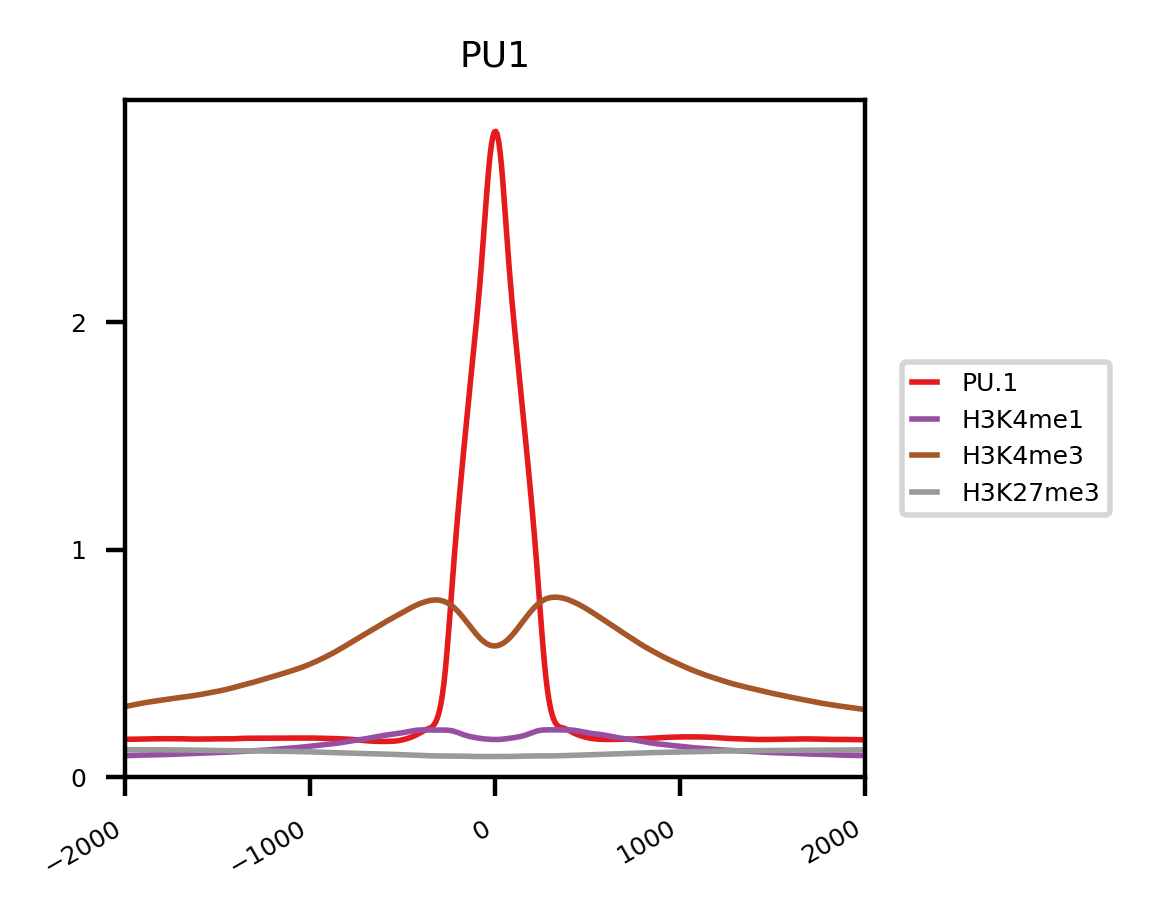
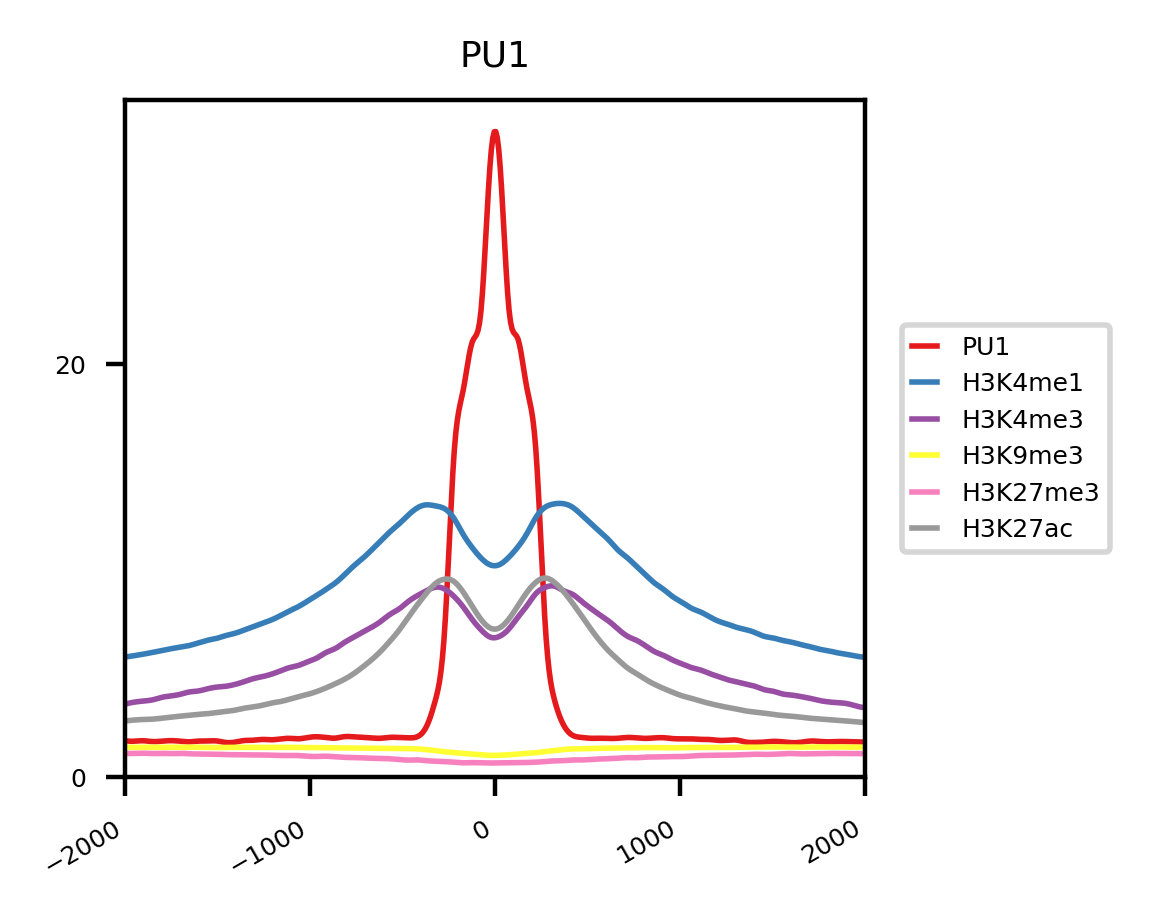
update rgt-viz tutorial

diff --git a/docs/rgt-viz/tutorial_regions_vs_signals.md b/docs/rgt-viz/tutorial_regions_vs_signals.md
@@ -2,7 +2,8 @@
 
 In this tutorial, we will demonstrate how we can use RGT-Viz to visualize signlas in different regions.
 
-## Download the example files
+## Download the data
+
 We will use the epigenetic data from dendritic cell development study as example. There, we have ChIP-Seq data from the transcription factor **PU.1** and **IRF8**, and histone modifications **H3K4me1**, **H3K4me3**, **H3K9me3**, **H3K27me3**, and **H3K27ac** on four cellular states: multipotent progenitors (MPP), dendritic cell progenitors (CDP), common dendritic cells (cDC) and plamatocyte dendritic cells (pDC). The functional annotation of these histone markers are as follows:
 
 * H3K4me1 is enriched at active and primed enhancers;
@@ -10,19 +11,6 @@ We will use the epigenetic data from dendritic cell development study as example
 * H3K9me3 is a marker of heterochromatin which has pivotal role during lineage commitement;
 * H3K27me3 is associated with the downregulation of nearby genes via the formation of heterochromatic regions;
 * H3K27ac is accociated with the higher activation of transcription and defined as an active enhancer marker.
-
-For simplicity, here we only look at data from the differentiation transition CDP to cDC.
-
-Please follow the following steps to download the necessary example files: genomic signals in bigwig (bw) format for histone modifications and PU.1, as well as peaks from PU.1 (bed files).
-
-Download the folder “rgt_viz_example” from [here](https://costalab.ukaachen.de/open_data/RGT/rgt_viz_example.zip).
-
-
-## Creating Line Plots with RGT-Viz
-
-Here we demonstrate how we can use RGT-Viz for drawing a lineplots. This allows for example to inspect the ChIP-Seq signals around particular genomic regions, as PU.1. peaks. Before you proceed, please [install RGT-Viz](https://reg-gen.readthedocs.io/en/latest/rgt/installation.html).
-
-### Download the example files
 
 Please follow the following steps to download the necessary example files: genomic signals in bigwig (bw) format for histone modifications and PU.1, as well as peaks from PU.1 (bed files).
 
@@ -32,39 +20,27 @@ Download the folder “rgt_viz_example” from [here](https://costalab.ukaachen.
 cd rgt_viz_example
 ```
 
-Now you have the files as described below:
-
 ```shell
-rgt_viz_example
-    ├── Matrix_CDP.txt
-    ├── Matrix_CDP_cDC.txt
-    ├── Matrix_H3K4me3.txt
-    ├── Matrix_PU1.txt
-    ├── data
-    │   ├── CDP_H3K27me3.bw
-    │   ├── CDP_H3K4me1.bw
-    │   ├── CDP_H3K4me3.bw
-    │   ├── CDP_PU1.bw
-    │   ├── CDP_PU1_peaks.bed
-    │   ├── CDP_WT_H3K27me3.bw
-    │   ├── CDP_WT_H3K4me1.bw
-    │   ├── CDP_WT_H3K4me3.bw
+└── data
+    ├── bw
+    │   ├── H3K27ac
+    │   ├── H3K27me3
+    │   ├── H3K4me1
     │   ├── H3K4me3
-    │   │   ├── CDP_WT_peaks.bed
-    │   │   ├── MPP_WT_peaks.bed
-    │   │   ├── cDC_WT_peaks.bed
-    │   │   └── pDC_WT_peaks.bed
-    │   ├── cDC_H3K27me3.bw
-    │   ├── cDC_H3K4me1.bw
-    │   ├── cDC_H3K4me3.bw
-    │   ├── cDC_PU1.bw
-    │   ├── cDC_PU1_peaks.bed
-    │   ├── cDC_WT_H3K27me3.bw
-    │   ├── cDC_WT_H3K4me1.bw
-    │   └── cDC_WT_H3K4me3.bw
+    │   ├── H3K9me3
+    │   ├── IRF8
+    │   └── PU1
+    └── peaks
+        ├── IRF8
+        └── PU1
 ```
 
-These files include the genomic signals of histone modifications (files with a .bw ending) and the genomic regions of PU.1 peaks (files with .bed endings).
+These directories include the genomic signals of histone modifications (files with a .bw ending as generated by [bamCoverage](https://deeptools.readthedocs.io/en/develop/content/tools/bamCoverage.html)) and the genomic regions of PU.1 and IRF8 peaks (files with .narrowPeak endings as generated by [MACS2](https://genomebiology.biomedcentral.com/articles/10.1186/gb-2008-9-9-r137)) in different DC cells.
+
+
+## Creating Line Plots with RGT-Viz
+
+Here we demonstrate how we can use RGT-Viz for drawing a lineplots. This allows for example to inspect the ChIP-Seq signals around particular genomic regions, as PU.1. peaks. Before you proceed, please [install RGT-Viz](https://reg-gen.readthedocs.io/en/latest/rgt/installation.html).
 
 ### Understand experimental matrix
 
@@ -72,13 +48,15 @@ Before we use the RGT-Viz, you must define an experimental matrix. This tab sepa
 
 For example “<em>Matrix_CDP.txt</em>”  includes the files, which we need for finding the association of genomic signals on the genomic peaks of PU.1 transcription factor.
 
-| name       	 | type	   | file			| factor   | cell |
-| :------------- | :------ | :------------------------- | :------- | :--- |
-| CDP\_PU1\_peaks| regions | ./data/CDP\_PU1\_peaks.bed | PU1      | CDP  |
-| CDP\_PU1       | reads   | ./data/CDP\_PU1.bw		| PU.1     | CDP  |
-| CDP\_H3K4me1   | reads   | ./data/CDP\_H3K4me1.bw	| H3K4me1  | CDP  |
-| CDP\_H3K4me3   | reads   | ./data/CDP\_H3K4me3.bw	| H3K4me3  | CDP  |
-| CDP\_H3K27me3  | reads   | ./data/CDP\_H3K27me3.bw 	| H3K27me3 | CDP  |
+| name       	 | type	   | file			                        | factor   | cell |
+| :------------- | :------ | :--------------------------------------| :------- | :--- |
+| CDP\_PU1\_peaks| regions | ./data/peaks/PU1/CDP\_peaks.narrowPeak | PU1      | CDP  |
+| CDP\_PU1       | reads   | ./data/bw/PU1/CDP.bw		            | PU.1     | CDP  |
+| CDP\_H3K4me1   | reads   | ./data/bw/H3K4me1/CDP.bw               | H3K4me1  | CDP  |
+| CDP\_H3K4me3   | reads   | ./data/bw/H3K4me3/CDP.bw               | H3K4me3  | CDP  |
+| CDP\_H3K9me3   | reads   | ./data/bw/H3K9me3/CDP.bw               | H3K9me3  | CDP  |
+| CDP\_H3K27me3   | reads   | ./data/bw/H3K27me3/CDP.bw               | H3K27me3  | CDP  |
+| CDP\_H3K27ac   | reads   | ./data/bw/H3K27ac/CDP.bw               | H3K27ac  | CDP  |
 
 The first column (name) is a unique name for labeling the data; the second column indicate the type of experiment. Here we have either  “regions” (genomic regions in bed format) or “reads” (genomic signals in bigwig or bam format). The third column is the file path to the data. You can include additional columns to annotate your data.  In our example, the 4th column (factor) indicates the protein measured by the ChIP-Seq and the 5th collumn indicates the cell, where experiments were performed. You can add any more columns and the column names identify the feature.
 
@@ -104,7 +82,7 @@ You can check the result by opening <em>results/index.html</em>
 <img src="../_static/rgt-viz/lineplot_CDP.png" width="450" height="350" align="center">
 </p>
 
-This lineplot shows the genomic signals of different histone modifications on the PU.1 genomic regions. The histone modifications are shown in different colors, and the window is centered by the midpoint of each genomic regions from PU.1 peaks.
+This lineplot shows the genomic signals of different histone modifications on the PU.1 genomic regions in CDP. The histone modifications are shown in different colors, and the window is centered by the midpoint of each genomic regions from PU.1 peaks.
 
 ### Add one more cell type
 
